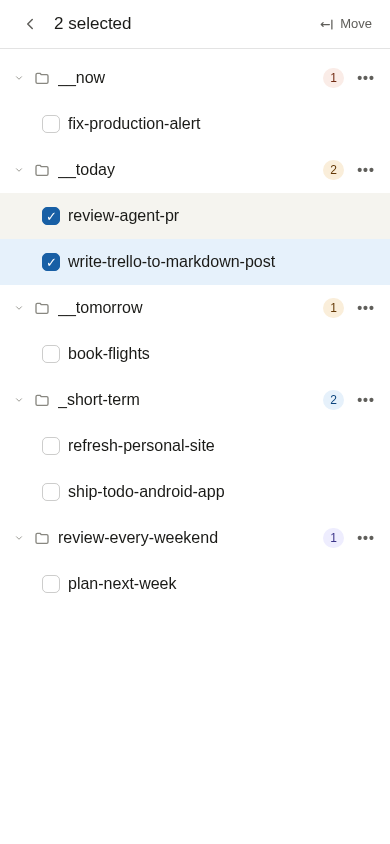
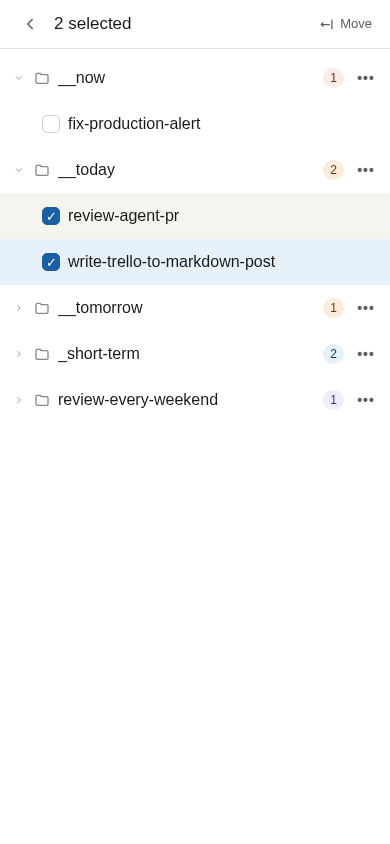
Default to focused TODO tree expansion

diff --git a/src/app/App.tsx b/src/app/App.tsx
@@ -299,6 +299,7 @@ export function App() {
   const [deletePath, setDeletePath] = useState("");
   const [toast, setToast] = useState("");
   const publishInFlight = useRef(false);
+  const expandedPathsInitialized = useRef(false);
 
   const hasUnsavedChanges = selectedPath !== "" && fileContent !== savedContent;
   const isConfigured = hasConfiguredSettings(settings);
@@ -368,13 +369,14 @@ export function App() {
     try {
       const nextSnapshot = await loadRepository(nextSettings);
       setSnapshot(nextSnapshot);
-      setExpandedPaths((current) => {
-        const topLevelDirectories = nextSnapshot.tree
-          .filter((node) => node.kind === "directory")
-          .map((node) => node.path);
-
-        return Array.from(new Set([...current, ...topLevelDirectories]));
-      });
+      const directoryPaths = new Set(listDirectoryPaths(nextSnapshot.tree));
+      const initializeExpandedPaths = !expandedPathsInitialized.current;
+      expandedPathsInitialized.current = true;
+      setExpandedPaths((current) =>
+        initializeExpandedPaths
+          ? directoryPaths.has("__now") ? ["__now"] : []
+          : current.filter((path) => directoryPaths.has(path)),
+      );
 
       if (selectedPath && !nextSnapshot.files.some((entry) => repositoryPathsEqual(entry.path, selectedPath))) {
         setSelectedPath("");
@@ -530,6 +532,7 @@ export function App() {
     window.localStorage.setItem(SETTINGS_STORAGE_KEY, JSON.stringify(nextSettings));
     setShowSettings(false);
     setActivePane("files");
+    expandedPathsInitialized.current = false;
     await syncRepository(nextSettings);
   }
 

diff --git a/e2e/live-ui.spec.ts b/e2e/live-ui.spec.ts
@@ -148,6 +148,8 @@ test.describe("live browser flow", () => {
 
     await expect(page.getByText("Loaded", { exact: false })).toBeVisible({ timeout: 60_000 });
     await expect(page.getByRole("heading", { name: /files/i })).toBeVisible();
+    await expect(page.getByRole("button", { name: trailingSpaceFileName.trim(), exact: true })).toHaveCount(0);
+    await page.getByRole("button", { name: "__today", exact: true }).click();
 
     await page.getByRole("button", { name: trailingSpaceFileName.trim(), exact: true }).click();
     await page.getByRole("button", { name: "Move", exact: true }).click();

diff --git a/e2e/readme-screenshots.spec.ts b/e2e/readme-screenshots.spec.ts
@@ -76,6 +76,7 @@ test("captures deterministic README screenshots", async ({ page }) => {
     path: "docs/images/todo-tree.png",
   });
 
+  await page.getByRole("button", { name: "__today", exact: true }).click();
   await page.getByRole("button", { name: "write-trello-to-markdown-post", exact: true }).click();
   await expect(page.getByRole("heading", { name: "__today/write-trello-to-markdown-post.md" })).toBeVisible();
   await page.screenshot({

diff --git a/TODO.md b/TODO.md
@@ -25,10 +25,16 @@ Please check if we need so update in the app. For sure we should update document
 > Changes: Replaced `__today/tomorrow` with `__tomorrow` in workflow suggestions and removed all `reviewed/` destinations/badges. Updated the representative repository layout and review workflow in README, the semantic sort regression, deterministic screenshot fixture, and regenerated all three README screenshots. Treated `todo_app_mobile_prototype_v2.html` as a historical design artifact rather than current documentation. In the separate `todo-app-test` repository, moved `mails.md` into new root `__tomorrow/` and flattened all `_short-term/reviewed/` and `review-every-weekend/reviewed/` files into their parents.
 > Validation: Confirmed the current production `todo` tree has root `__tomorrow` and no tracked `reviewed/` or `__today/tomorrow/` paths. `npm test`, `npm run build`, and the deterministic screenshot test passed. Published the fixture migration to `todo-app-test/main` as commit `7cbf981`, then ran the live API create/edit/move/delete flow successfully from that updated main branch.
 
-## [NEW] Sorting and expanding
+## [DONE 2026-07-29.1] Sorting and expanding
 
 * Right now when I kill the app and open it again top level folders are expanded. By default I should see just top level folders with just `now` folder expanded.
+  > Agent: The first repository load now expands only `__now`. Subsequent pulls preserve the user's current expanded/collapsed choices and discard only directories that no longer exist; saving settings for another repository resets the default initialization.
+  > Validation: The live UI test asserts that a seeded `__today` file is absent before explicitly expanding `__today`, then completes the full workflow successfully.
 * `__tomorrow` now lands as last folder while in VS Code I see it just after `__today`
+  > Agent: Added `__tomorrow` to the semantic sort directly after `__today`, before `_short-term` and review directories.
+  > Validation: Extended the unit regression with all relevant top-level directories and regenerated the collapsed-default README tree screenshot.
+
+> Whole item validation: `npm test`, `npm run build`, the deterministic screenshot test, and the real browser E2E all passed.
 
 
 ## [NEW] Maybe move pull now from settings screen somewhare to main screen?
